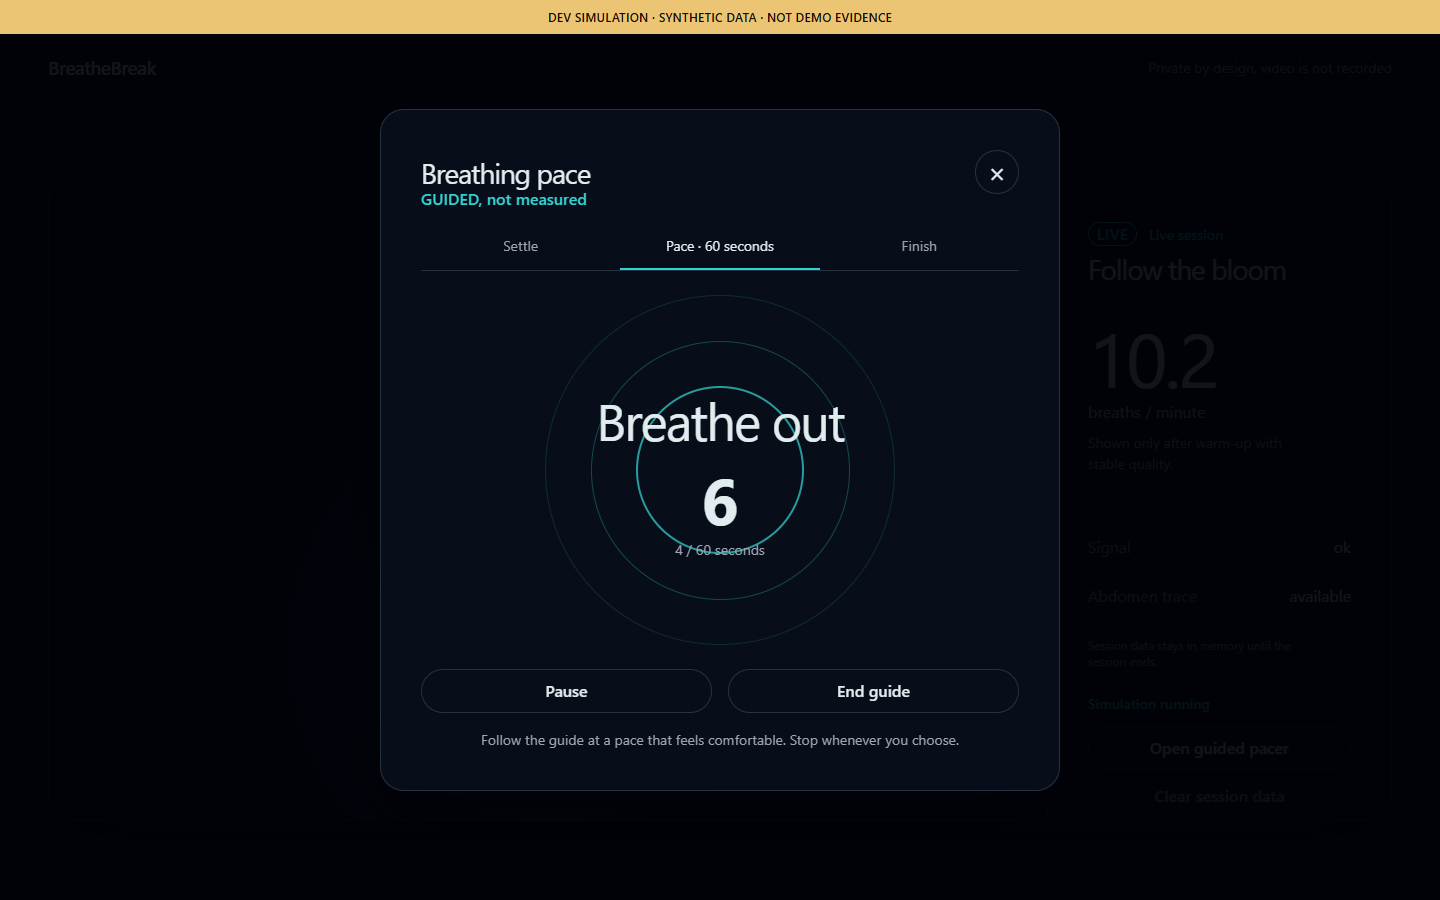
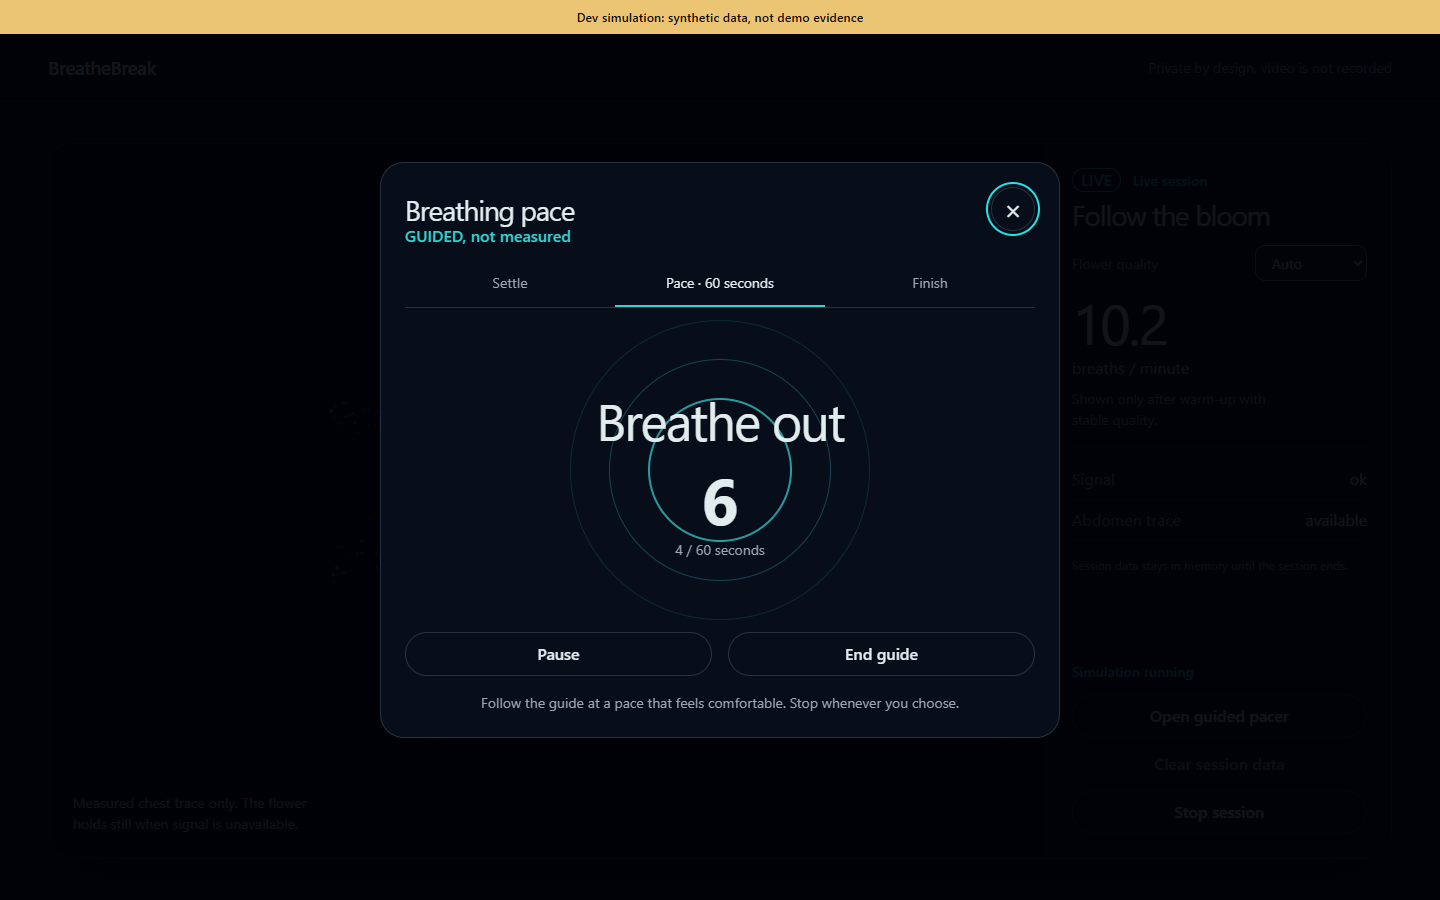
fix: finalize D1-D3 targeted UI corrections

diff --git a/src/renderer/src/features/pacer/GuidedPacer.tsx b/src/renderer/src/features/pacer/GuidedPacer.tsx
@@ -1,19 +1,24 @@
 import { useEffect, useRef, useState } from 'react'
 import { PacerController, systemPacerClock, type PacerClock, type PacerSnapshot } from './pacer'
+
 const initial: PacerSnapshot={status:'ready',segment:'settle',breathPhase:'inhale',countdown:3,paceElapsedMs:0}
+const focusableSelector='button:not(:disabled),select:not(:disabled),input:not(:disabled),textarea:not(:disabled),[href],[tabindex]:not([tabindex="-1"])'
+export function trapTabAtBoundary(shell:HTMLElement,shiftKey:boolean):boolean{const focusable=[...shell.querySelectorAll<HTMLElement>(focusableSelector)];if(!focusable.length)return true;const first=focusable[0],last=focusable[focusable.length-1],active=document.activeElement;if(shiftKey&&(active===first||!shell.contains(active))){last.focus();return true}if(!shiftKey&&active===last){first.focus();return true}return false}
+
 export function GuidedPacer({open,onClose,onComplete,clock=systemPacerClock}:{open:boolean;onClose():void;onComplete(inhaleSeconds:number,exhaleSeconds:number):void;clock?:PacerClock}):JSX.Element|null{
- const [inhale,setInhale]=useState(4),[exhale,setExhale]=useState(6),[snapshot,setSnapshot]=useState(initial);const controller=useRef<PacerController>();
+ const [inhale,setInhale]=useState(4),[exhale,setExhale]=useState(6),[snapshot,setSnapshot]=useState(initial);const controller=useRef<PacerController>();const shellRef=useRef<HTMLDivElement>(null);const openerRef=useRef<HTMLElement|null>(null)
  useEffect(()=>()=>controller.current?.dispose(),[])
  useEffect(()=>{if(!open){controller.current?.dispose();controller.current=undefined;setSnapshot(initial)}},[open])
- useEffect(()=>{if(!open)return;const key=(event:KeyboardEvent):void=>{const target=event.target as HTMLElement|null;if(target?.matches('input, select, textarea, button, [contenteditable=true]'))return;if(event.key==='Escape'){event.preventDefault();onClose()}else if(event.code==='Space'&&(snapshot.status==='running'||snapshot.status==='paused')){event.preventDefault();controller.current?.togglePause()}};window.addEventListener('keydown',key);return()=>window.removeEventListener('keydown',key)},[open,onClose,snapshot.status])
+ useEffect(()=>{if(!open)return;openerRef.current=document.activeElement instanceof HTMLElement?document.activeElement:null;const background=[...document.querySelectorAll<HTMLElement>('.app > :not(.pacer-overlay)')];const inertBefore=background.map(node=>node.inert);background.forEach(node=>{node.inert=true});shellRef.current?.querySelector<HTMLElement>(focusableSelector)?.focus();return()=>{background.forEach((node,index)=>{node.inert=inertBefore[index]});openerRef.current?.focus()}},[open])
+ useEffect(()=>{if(!open)return;const key=(event:KeyboardEvent):void=>{if(event.key==='Escape'){event.preventDefault();onClose();return}if(event.key==='Tab'){if(shellRef.current&&trapTabAtBoundary(shellRef.current,event.shiftKey))event.preventDefault();return}const target=event.target as HTMLElement|null;if(target?.matches('input, select, textarea, button, [contenteditable=true]'))return;if(event.code==='Space'&&(snapshot.status==='running'||snapshot.status==='paused')){event.preventDefault();controller.current?.togglePause()}};document.addEventListener('keydown',key);return()=>document.removeEventListener('keydown',key)},[open,onClose,snapshot.status])
  if(!open)return null
+ const trapFocus=(event:React.KeyboardEvent<HTMLElement>):void=>{if(event.key==='Tab'&&shellRef.current&&trapTabAtBoundary(shellRef.current,event.shiftKey))event.preventDefault()}
  const start=():void=>{const next=new PacerController(clock,inhale,exhale,setSnapshot,()=>onComplete(inhale,exhale));controller.current=next;next.start()};const toggle=():void=>controller.current?.togglePause();const phase=snapshot.segment==='settle'?'Settle':snapshot.segment==='finish'?'Finish':snapshot.breathPhase==='inhale'?'Breathe in':'Breathe out'
- return <section className="pacer-overlay" role="dialog" aria-modal="true" aria-labelledby="pacer-title" data-pacer-status={snapshot.status} data-pacer-phase={snapshot.breathPhase}>
-  <div className="pacer-shell"><header className="pacer-header"><div><h2 id="pacer-title">Breathing pace</h2><p className="guided-label">GUIDED, not measured</p></div><button className="icon-button" onClick={onClose} aria-label="Close guided pacer">×</button></header>
-  <nav className="pacer-progress" aria-label="Guided pace progress"><span className={snapshot.segment==='settle'?'current':''}>Settle</span><span className={snapshot.segment==='pace'?'current':''}>Pace · 60 seconds</span><span className={snapshot.segment==='finish'?'current':''}>Finish</span></nav>
+ return <section className="pacer-overlay" role="dialog" aria-modal="true" aria-labelledby="pacer-title" aria-describedby="pacer-note" data-pacer-status={snapshot.status} data-pacer-phase={snapshot.breathPhase} onKeyDown={trapFocus}>
+  <div className="pacer-shell" ref={shellRef}><header className="pacer-header"><div><h2 id="pacer-title">Breathing pace</h2><p className="guided-label">GUIDED, not measured</p></div><button className="icon-button" onClick={onClose} aria-label="Close guided pacer">&times;</button></header>
+  <nav className="pacer-progress" aria-label="Guided pace progress"><span className={snapshot.segment==='settle'?'current':''}>Settle</span><span className={snapshot.segment==='pace'?'current':''}>Pace &middot; 60 seconds</span><span className={snapshot.segment==='finish'?'current':''}>Finish</span></nav>
   <div className="pacer-visual" aria-live="polite"><div className="pacer-ring pacer-ring--outer"/><div className="pacer-ring pacer-ring--middle"/><div className="pacer-ring pacer-ring--inner"/><div className="pacer-readout"><p className="pacer-instruction">{snapshot.status==='paused'?'Paused':phase}</p><strong>{snapshot.status==='complete'?'Done':snapshot.countdown}</strong>{snapshot.segment==='pace'&&<p>{Math.min(60,Math.floor(snapshot.paceElapsedMs/1000))} / 60 seconds</p>}</div></div>
   {snapshot.status==='ready'?<><div className="pacer-settings"><label>Inhale<select value={inhale} onChange={e=>setInhale(Number(e.target.value))}>{[3,4,5,6,7,8].map(v=><option key={v} value={v}>{v} seconds</option>)}</select></label><label>Exhale<select value={exhale} onChange={e=>setExhale(Number(e.target.value))}>{[3,4,5,6,7,8].map(v=><option key={v} value={v}>{v} seconds</option>)}</select></label></div><button className="button button--primary pacer-primary" onClick={start}>Start guided pacing</button></>:<div className="pacer-actions">{snapshot.status!=='complete'&&<button className="button button--secondary" onClick={toggle}>{snapshot.status==='paused'?'Resume':'Pause'}</button>}<button className="button button--secondary" onClick={onClose}>{snapshot.status==='complete'?'Close':'End guide'}</button></div>}
-  <p className="pacer-note">Follow the guide at a pace that feels comfortable. Stop whenever you choose.</p></div>
+  <p className="pacer-note" id="pacer-note">Follow the guide at a pace that feels comfortable. Stop whenever you choose.</p></div>
  </section>
 }
-

diff --git a/src/renderer/src/components/GardenCanvas.tsx b/src/renderer/src/components/GardenCanvas.tsx
@@ -3,6 +3,7 @@ import { AutoQualityController, createFlowerParticles, FLOWER_PARTICLES, particl
 
 type Props = { readChest: () => number | undefined; active: boolean; quality?: FlowerQuality; preview?: boolean }
 const particles = createFlowerParticles(FLOWER_PARTICLES.high)
+const coreRings = [[.072,.07],[.05,.14],[.03,.3],[.014,.82]] as const
 
 export function GardenCanvas({ readChest, active, quality = 'auto', preview = false }: Props): JSX.Element {
   const canvasRef = useRef<HTMLCanvasElement>(null)
@@ -24,15 +25,15 @@ export function GardenCanvas({ readChest, active, quality = 'auto', preview = fa
       if (motion.matches && !options.preview && !changed && lastFrameAt > -Infinity) return
       lastChest = chest; breathScale = options.preview ? 1.035 : resolveBreathScale(chest, breathScale, motion.matches)
       context.setTransform(ratio, 0, 0, ratio, 0, 0); context.fillStyle = colors.ground; context.fillRect(0, 0, width, height)
-      const cx = width * .5, cy = height * .49, radius = Math.min(width, height) * .29 * breathScale, count = particleLimit(options.quality, auto.count)
+      const cx = width * .5, cy = height * .49, radius = Math.min(width, height) * .29 * breathScale, count = particleLimit(options.quality, auto.count), low = options.quality === 'low'
       context.save(); context.translate(cx, cy); context.globalCompositeOperation = 'screen'; context.strokeStyle = colors.mesh; context.lineWidth = .45
       for (let index = 0; index < count; index += 1) {
         const point = particles[index], length = radius * (.22 + point.along * .86), widthCurve = radius * .28 * point.across, bend = Math.sin(point.along * Math.PI) * radius * .08
         const x = Math.cos(point.angle) * length - Math.sin(point.angle) * (widthCurve + bend), y = Math.sin(point.angle) * length + Math.cos(point.angle) * (widthCurve + bend)
-        if (index % 10 === 0 && index + 9 < count) { const peer = particles[index + 9], peerLength = radius * (.22 + peer.along * .86), peerWidth = radius * .28 * peer.across; context.globalAlpha = .08; context.beginPath(); context.moveTo(x, y); context.lineTo(Math.cos(peer.angle) * peerLength - Math.sin(peer.angle) * peerWidth, Math.sin(peer.angle) * peerLength + Math.cos(peer.angle) * peerWidth); context.stroke() }
-        context.globalAlpha = point.alpha; context.fillStyle = colors.petal; context.beginPath(); context.arc(x, y, point.size, 0, Math.PI * 2); context.fill()
+        if (index % (low?3:10) === 0 && index + 9 < count) { const peer = particles[index + 9], peerLength = radius * (.22 + peer.along * .86), peerWidth = radius * .28 * peer.across, peerBend = Math.sin(peer.along * Math.PI) * radius * .08; context.globalAlpha = low?.15:.08; context.beginPath(); context.moveTo(x, y); context.lineTo(Math.cos(peer.angle) * peerLength - Math.sin(peer.angle) * (peerWidth + peerBend), Math.sin(peer.angle) * peerLength + Math.cos(peer.angle) * (peerWidth + peerBend)); context.stroke() }
+        context.globalAlpha = low?Math.min(.9,point.alpha*1.25):point.alpha; context.fillStyle = colors.petal; context.beginPath(); context.arc(x, y, low?point.size*1.12:point.size, 0, Math.PI * 2); context.fill()
       }
-      context.globalAlpha = .32; context.fillStyle = colors.center; context.beginPath(); context.arc(0, 0, radius * .06, 0, Math.PI * 2); context.fill(); context.globalAlpha = .75; context.beginPath(); context.arc(0, 0, radius * .018, 0, Math.PI * 2); context.fill(); context.restore()
+      context.fillStyle = colors.center;for(const [coreRadius,alpha] of coreRings){context.globalAlpha=alpha;context.beginPath();context.arc(0,0,radius*coreRadius,0,Math.PI*2);context.fill()}context.restore()
       const durationMs = performance.now() - started; if (options.quality === 'auto') auto.observe(durationMs); lastFrameAt = now
       if (document.documentElement.dataset.screenshotHarness) window.dispatchEvent(new CustomEvent('breathebreak:garden-frame', { detail: { durationMs, timestamp: now, quality: options.quality, particles: count, chest, reducedMotion: motion.matches } }))
     }

diff --git a/src/renderer/src/features/pacer/GuidedPacer.test.tsx b/src/renderer/src/features/pacer/GuidedPacer.test.tsx
@@ -1,0 +1,22 @@
+// @vitest-environment jsdom
+import { act } from 'react'
+import { createRoot, type Root } from 'react-dom/client'
+import { afterEach, describe, expect, it, vi } from 'vitest'
+import { GuidedPacer, trapTabAtBoundary } from './GuidedPacer'
+
+globalThis.IS_REACT_ACT_ENVIRONMENT=true
+let root:Root|undefined
+let host:HTMLDivElement|undefined
+
+function Harness({open,onClose}:{open:boolean;onClose():void}):JSX.Element{return <main className="app"><div className="app-stage"><button>Open guided pacer</button></div><GuidedPacer open={open} onClose={onClose} onComplete={()=>{}}/></main>}
+function draw(open:boolean,onClose:()=>void):void{if(!host){host=document.createElement('div');document.body.append(host);root=createRoot(host)}act(()=>root!.render(<Harness open={open} onClose={onClose}/>))}
+function button(label:string):HTMLButtonElement{const node=document.querySelector<HTMLButtonElement>(`button[aria-label="${label}"]`);if(!node)throw Error('Missing '+label);return node}
+function press(target:HTMLElement,key:string,shiftKey=false):void{act(()=>{target.dispatchEvent(new KeyboardEvent('keydown',{key,bubbles:true,cancelable:true,shiftKey}))})}
+
+afterEach(()=>{if(root)act(()=>root!.unmount());host?.remove();root=undefined;host=undefined})
+
+describe('guided pacer keyboard accessibility',()=>{
+ it('moves focus inside, makes the background inert, and restores the opener',()=>{const onClose=vi.fn();draw(false,onClose);const opener=document.querySelector<HTMLButtonElement>('.app-stage button')!;opener.focus();draw(true,onClose);expect(document.activeElement).toBe(button('Close guided pacer'));expect(document.querySelector<HTMLElement>('.app-stage')?.inert).toBe(true);draw(false,onClose);expect(document.activeElement).toBe(opener);expect(document.querySelector<HTMLElement>('.app-stage')?.inert).not.toBe(true)})
+ it('traps Tab and Shift+Tab at the dialog boundaries',()=>{draw(true,()=>{});const shell=document.querySelector<HTMLElement>('.pacer-shell')!,controls=[...shell.querySelectorAll<HTMLElement>('button:not(:disabled),select:not(:disabled),input:not(:disabled),textarea:not(:disabled),[href],[tabindex]:not([tabindex="-1"])')],first=controls[0],last=controls.at(-1)!;last.focus();expect(trapTabAtBoundary(shell,false)).toBe(true);expect(document.activeElement).toBe(first);expect(trapTabAtBoundary(shell,true)).toBe(true);expect(document.activeElement).toBe(last)})
+ it('closes with Escape while a control is focused',()=>{const onClose=vi.fn();draw(true,onClose);const select=document.querySelector<HTMLSelectElement>('.pacer-settings select')!;select.focus();press(select,'Escape');expect(onClose).toHaveBeenCalledOnce()})
+})

diff --git a/src/renderer/src/components/signatureFlower.ts b/src/renderer/src/components/signatureFlower.ts
@@ -4,7 +4,7 @@ export const FLOWER_FRAME_INTERVAL_MS = 1000 / 30
 export type FlowerParticle = { angle: number; along: number; across: number; size: number; alpha: number }
 const fractional = (value: number): number => value - Math.floor(value)
 const noise = (index: number, seed: number): number => fractional(Math.sin(index * 91.731 + seed * 17.17) * 43758.5453)
-export function createFlowerParticles(count: number): FlowerParticle[] { return Array.from({ length: count }, (_, index) => { const along = Math.sqrt(noise(index, 1)); return { angle: index % 9 * Math.PI * 2 / 9 + (noise(index, 2) - .5) * .13, along, across: (noise(index, 3) - .5) * Math.sin(along * Math.PI) * .72, size: .65 + noise(index, 4) * 1.15, alpha: .25 + noise(index, 5) * .55 } }) }
+export function createFlowerParticles(count: number): FlowerParticle[] { const rings=Math.ceil(count/9);return Array.from({ length: count }, (_, index) => { const along = Math.min(1,(Math.floor(index/9)+.35+noise(index,1)*.3)/rings); return { angle: index % 9 * Math.PI * 2 / 9 + (noise(index, 2) - .5) * .13, along, across: (noise(index, 3) - .5) * Math.sin(along * Math.PI) * .72, size: .65 + noise(index, 4) * 1.15, alpha: .25 + noise(index, 5) * .55 } }) }
 export const particleLimit = (quality: FlowerQuality, autoCount = FLOWER_PARTICLES.high): number => quality === 'high' ? FLOWER_PARTICLES.high : quality === 'low' ? FLOWER_PARTICLES.low : Math.max(FLOWER_PARTICLES.low, Math.min(FLOWER_PARTICLES.high, autoCount))
 export class AutoQualityController { private samples: number[] = []; private fastWindows = 0; count = FLOWER_PARTICLES.high; observe(durationMs: number): number { this.samples.push(durationMs); if (this.samples.length < 30) return this.count; const sorted = this.samples.sort((a, b) => a - b), p95 = sorted[Math.min(sorted.length - 1, Math.floor(sorted.length * .95))], median = sorted[Math.floor(sorted.length / 2)]; this.samples = []; if (p95 > 8 || median > 4) { this.count = this.count > 440 ? 440 : FLOWER_PARTICLES.low; this.fastWindows = 0 } else if (median < 2.5 && p95 < 5) { this.fastWindows += 1; if (this.fastWindows >= 3) { this.count = this.count < 440 ? 440 : FLOWER_PARTICLES.high; this.fastWindows = 0 } } else this.fastWindows = 0; return this.count } }
 export function shouldRenderFrame(lastFrameAt: number, now: number, active: boolean, hidden: boolean, recap: boolean): boolean { return active && !hidden && !recap && now - lastFrameAt >= FLOWER_FRAME_INTERVAL_MS }

diff --git a/src/renderer/src/styles.css b/src/renderer/src/styles.css
@@ -98,7 +98,7 @@ body { min-height: 100vh; min-height: 100dvh; }
   .welcome-screen { grid-template-columns: minmax(0, 1fr); }
   .session-screen { grid-template-columns: minmax(0, 1fr) 310px; }
 }
-@media (max-height: 820px) and (min-width: 60rem) {
+@media (max-height: 920px) and (min-width: 60rem) {
   .app-stage { padding-block: var(--space-lg); }
   .consent-panel { padding: var(--space-lg); }
   .consent-check, .field-label { margin-top: var(--space-md); }
@@ -148,7 +148,7 @@ body { min-height: 100vh; min-height: 100dvh; }
 .pacer-actions { display: grid; grid-template-columns: repeat(2, 1fr); gap: var(--space-md); }
 .pacer-actions .button { width: 100%; }
 .pacer-note { margin-top: var(--space-md); color: var(--color-muted); font-size: var(--text-sm); text-align: center; }
-@media (max-height: 820px) and (min-width: 60rem) {
+@media (max-height: 920px) and (min-width: 60rem) {
   .session-panel { padding: var(--space-lg); }
   .rate-block { margin-top: var(--space-md); padding-bottom: var(--space-md); }
   .rate-value { font-size: 3.5rem; }
@@ -159,5 +159,5 @@ body { min-height: 100vh; min-height: 100dvh; }
   .pacer-visual { width: min(300px, 50vh); margin-block: var(--space-sm); }
 }
 @media (prefers-reduced-motion: reduce) {
-  .pacer-ring { transition: opacity 150ms linear; }
+  .pacer-ring { transition: none; }
 }
